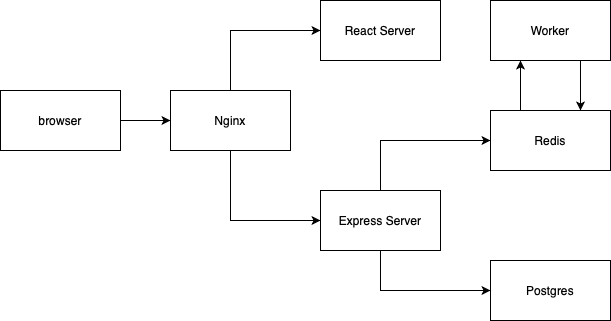
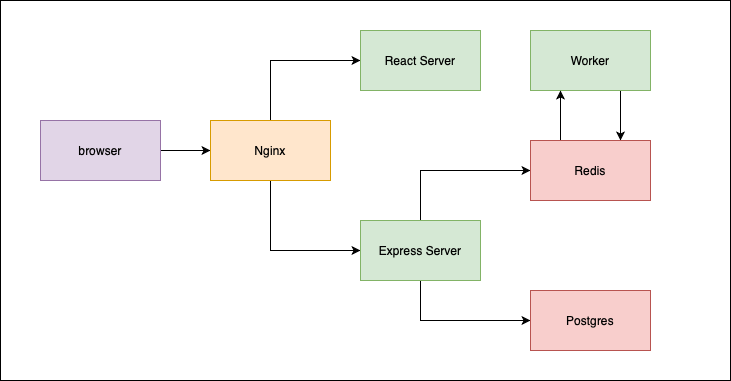
modify readme, update diagrams.

diff --git a/README.md b/README.md
@@ -1,5 +1,43 @@
 
+# Overview
+
+Example React app using multiple Docker containers and using Kubernetes for orchestration etc.
+
+The system can be deployed locally on docker-desktop, or on Google Kubernetes Engine (among others)
+
+This is based on the following Udemy course: https://www.udemy.com/course/docker-and-kubernetes-the-complete-guide/
+
+For storage, we're making use of Postgres and Redis.
+
+## App architecture
+
+![Dev architecture](images/multidocker-dev-arch.png)
+
+1. Nginx
+1. React server
+1. Express server
+1. Worker
+1. Redis
+1. Postgres
+
+## App flow
+
+1. User submits a number
+1. React app sends number to Express server
+1. Express server stores number in Postgres database
+1. Express server puts number in Redis
+1. Worker listens to Redis insert events, calculates the Fibonacci value recursively (slow), and puts it back in Redis
+
 # Local Deployment
+
+```
+$ kubectl apply -f k8s -f k8s.dev
+```
+
+In a web browser, navigate to `http://localhost`
+
+
+# Development
 
 ## Node Architecture
 ![Node Architecture](images/k8s/node_architecture.png)
@@ -7,7 +45,7 @@
 ## Flow
 
 1. Create config files for each service and deployment
-1. Test locally on Docker Kubernetes
+1. Test locally on docker-kubernetes
 1. Create Github/Travis flow to build images and deploy
 1. Deploy app to a cloud provider
 
@@ -82,7 +120,7 @@ We create a configuration file (an ingress config), which is a set of routing ru
 This is the Nginx Ingress project we're using:
 http://github.com/kubernetes/ingress-nginx
 
-### Setting up Ingress with Docker Desktop:
+### Setting up Ingress with docker-desktop:
 
 ```
 $ kubectl apply -f https://raw.githubusercontent.com/kubernetes/ingress-nginx/controller-v0.45.0/deploy/static/provider/cloud/deploy.yaml
@@ -138,7 +176,7 @@ Skip login
 
 ![Kubernetes Dashboard Login](images/k8s/k8s-dashboard-2.png)
 
-# Production Deployment
+# Deployment to Google Kubernetes Engine
 
 Connect Github project to Travis
 
@@ -187,7 +225,7 @@ Note: in order for travis to talk to GKE, we need to create an IAM account on Go
 
 After you download the credentials json file from Google, you need to use the travis CLI to encrypt it. The best way to do this consistently is to use a docker container with the ruby image.
 
-Note: you need to create a Github Personal Access Token for TraviNs and use it to log in to Travis with.
+Note: you need to create a Github Personal Access Token for Travis and use it to log in to Travis with.
 
 ```
 $ docker run -it -v $(pwd):/app ruby:2.4 sh
